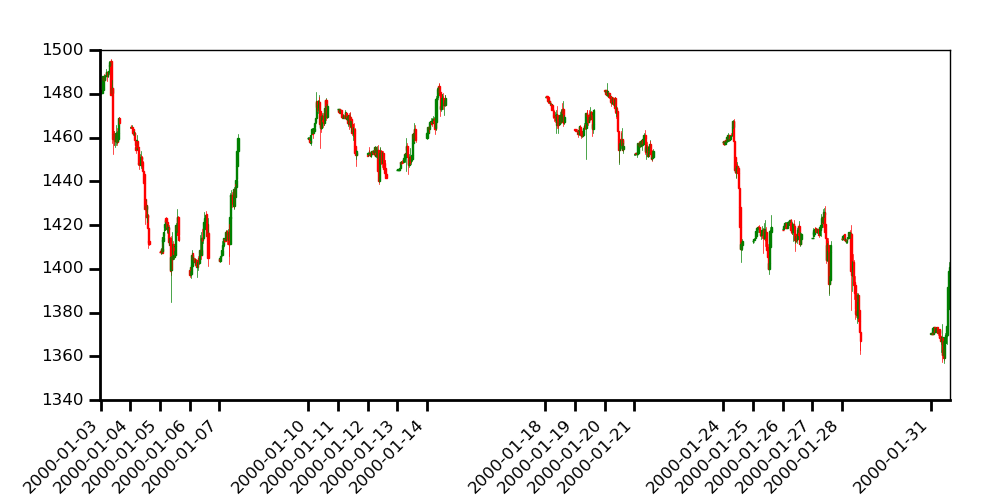
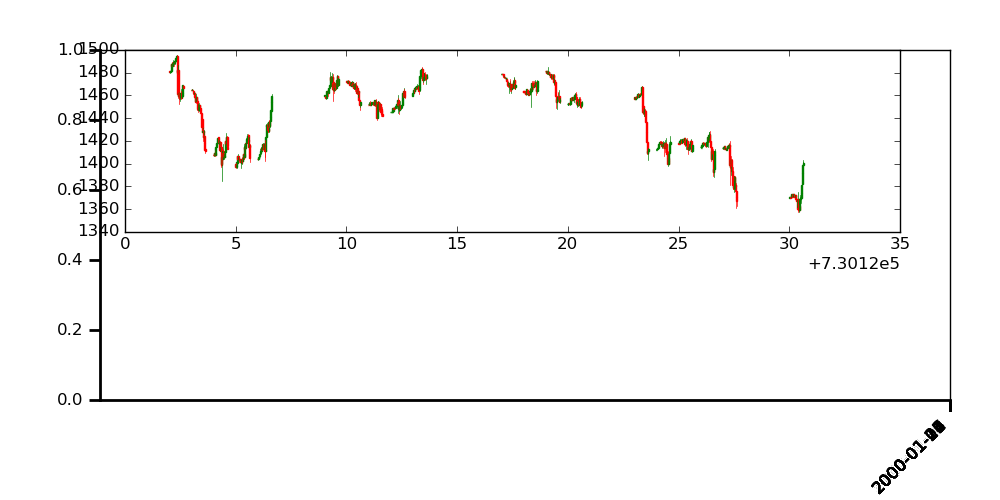
ffgv

diff --git a/analize/charting_data.py b/analize/charting_data.py
@@ -15,15 +15,12 @@ for i in range(1):  # len(df.columns)):
     price = pd.DataFrame(df.ix[1,i])
     price['DT'] = pd.to_datetime(price['DT'])
     price['num_date'] = price['DT'].apply(date2num)
+    price['my_date'] = np.trunc(price['num_date'])
 
-    quotes = price[['num_date','O','H','L','C']].dropna()
-    
     ndays = np.unique(np.trunc(price['num_date']), return_index=True)
     xdays =  []
     for n in np.arange(len(ndays[0])):
         xdays.append(datetime.date.isoformat(num2date(ndays[0][n])))
-
-    data2 = [quotes[1:]]
 
     fig = plt.figure(figsize=(10, 5))
     ax = fig.add_axes([0.1, 0.2, 0.85, 0.7])
@@ -35,23 +32,14 @@ for i in range(1):  # len(df.columns)):
     ax.spines['bottom'].set_linewidth(2)
     ax.set_xticks(ndays[0])
     ax.set_xticklabels(xdays, rotation=45, horizontalalignment='right')
-    candlestick_ohlc(ax, quotes.values, width=0.05, colorup='g', colordown='r')
+
+    for day in ndays[0]:
+        q = price.loc[price['my_date'] == day]
+        quotes = q[['num_date', 'O', 'H', 'L', 'C']].dropna()
+        fig.subplots_adjust(bottom=0.1)
+        ax = fig.add_subplot(211)
+        candlestick_ohlc(ax, quotes.values, width=0.05, colorup='g', colordown='r')
+
     name = "{}-{}.png".format(price['DT'][0].year, price['DT'][0].month)
     plt.savefig(name) 
     
-    #fig, ax = plt.subplots()
-    #fig.set_size_inches((15,8))
-    # ax.xaxis.set_major_locator(mondays)
-    # ax.xaxis.set_minor_locator(alldays)
-    # ax.xaxis.set_major_formatter(dayFormatter)
-    # candlestick_ohlc(ax, quotes.values, width=0.05, colorup='g', colordown='r')
-    # ax.xaxis_date()
-    # ax.set_xticks(range(11111111111, len(weekday_quotes), 5))
-    # ax.set_xticklabels([num2date(weekday_quotes[index][0]).strftime('%b-%d') for index in ax.get_xticks()])
-    # ax.autoscale_view()
-    # plt.setp(plt.gca().get_xticklabels(), rotation=45, horizontalalignment='right')
-    # ax.xaxis.set_major_formatter(ticker.FuncFormatter(format_date))
-    # fig.autofmt_xdate()
-    # name = "{}-{}.png".format(price['DT'][0].year, price['DT'][0].month)
-    # plt.savefig(name)
-
